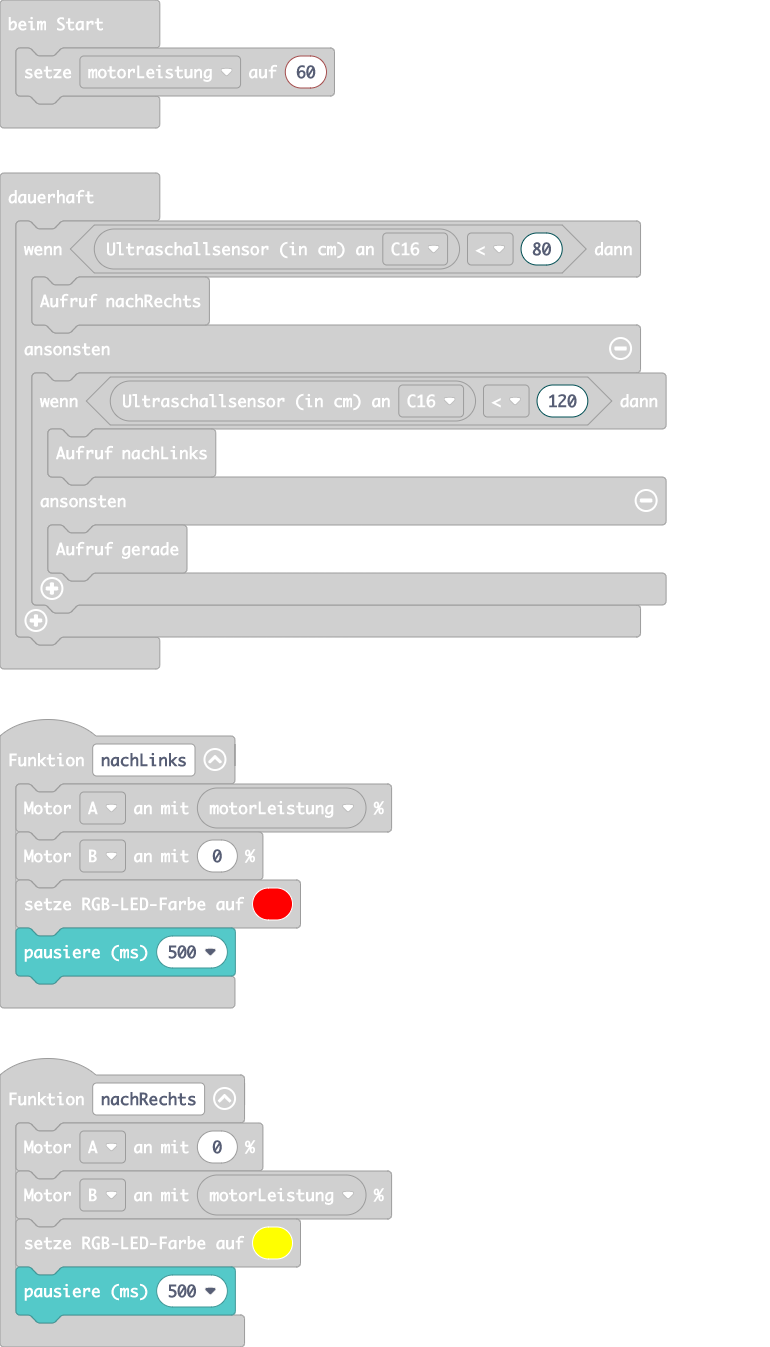
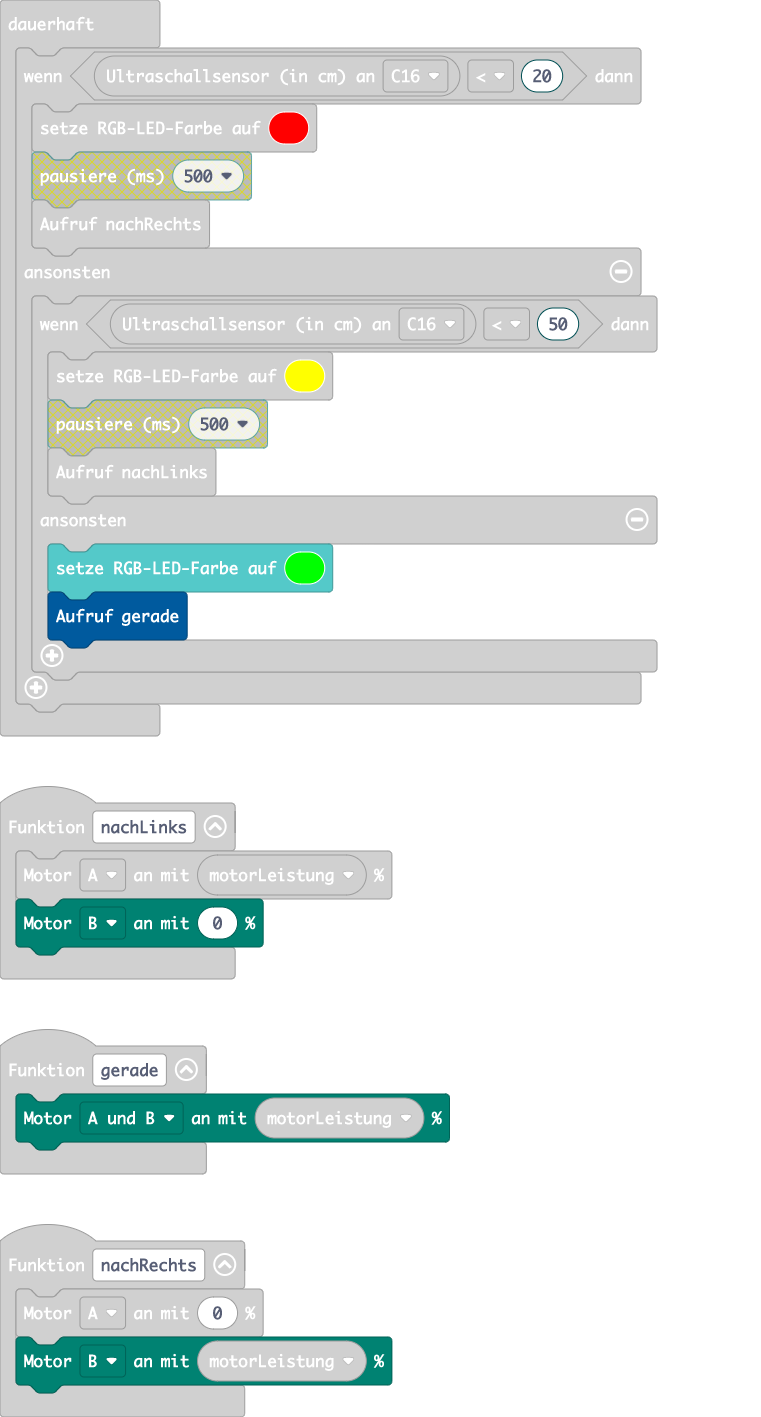
Aktualisiere main.blocks, main.ts

diff --git a/main.ts b/main.ts
@@ -1,28 +1,26 @@
 function gerade () {
     motors.dualMotorPower(Motor.AB, motorLeistung)
-    basic.setLedColor(0x00ff00)
 }
 function nachLinks () {
     motors.dualMotorPower(Motor.A, motorLeistung)
     motors.dualMotorPower(Motor.B, 0)
-    basic.setLedColor(0xff0000)
-    basic.pause(500)
 }
 function nachRechts () {
     motors.dualMotorPower(Motor.A, 0)
     motors.dualMotorPower(Motor.B, motorLeistung)
-    basic.setLedColor(0xffff00)
-    basic.pause(500)
 }
 let motorLeistung = 0
 motorLeistung = 60
 basic.forever(function () {
-    if (grove.measureInCentimeters(DigitalPin.C16) < 80) {
+    if (grove.measureInCentimeters(DigitalPin.C16) < 20) {
+        basic.setLedColor(0xff0000)
         nachRechts()
     } else {
-        if (grove.measureInCentimeters(DigitalPin.C16) < 120) {
+        if (grove.measureInCentimeters(DigitalPin.C16) < 50) {
+            basic.setLedColor(0xffff00)
             nachLinks()
         } else {
+            basic.setLedColor(0x00ff00)
             gerade()
         }
     }
